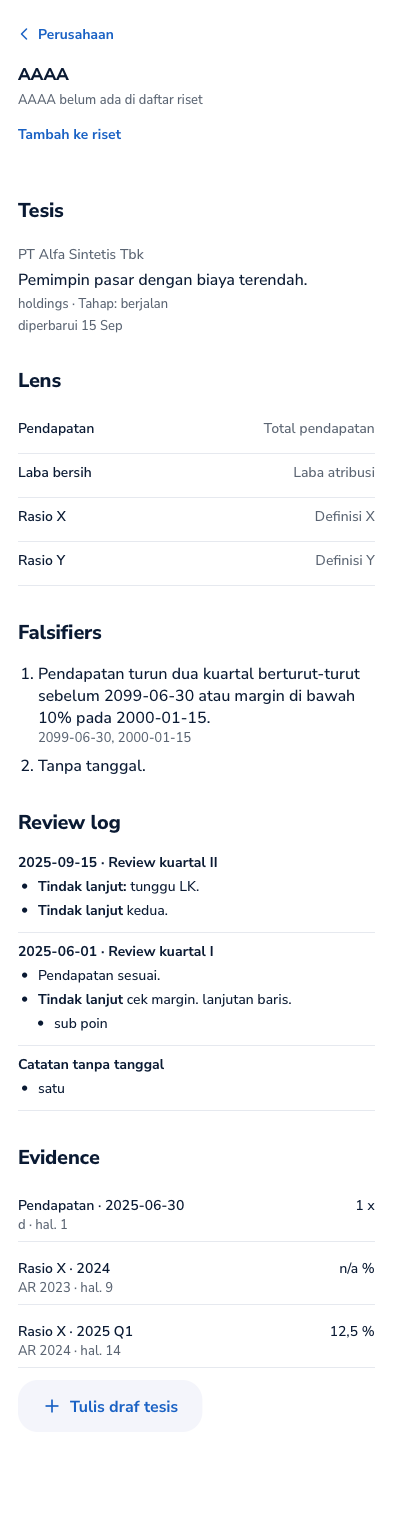
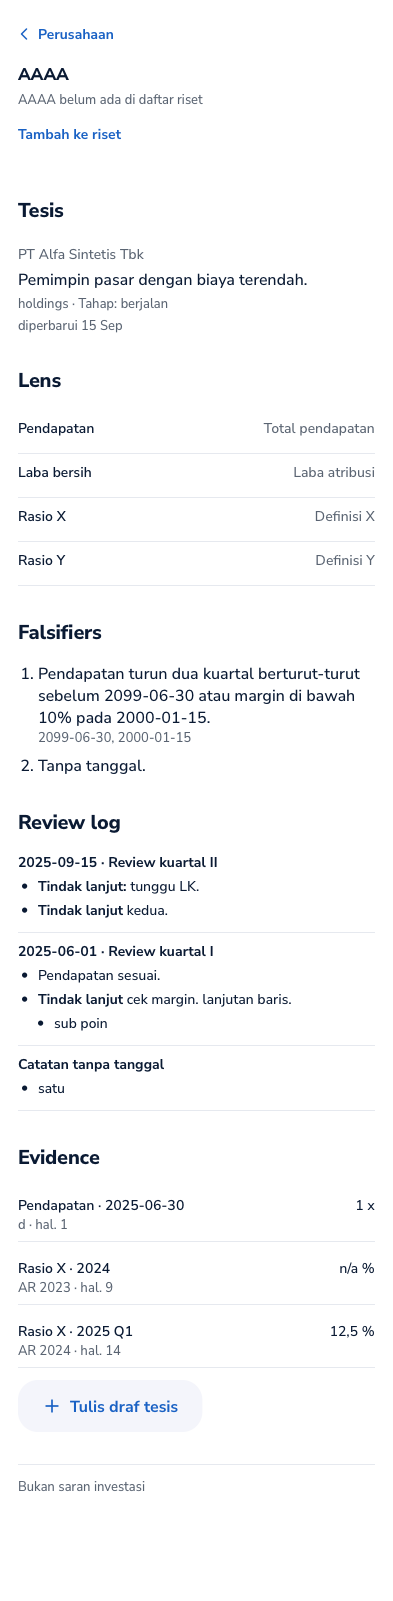
L3b: locate the thesis-only footer as main > footer, a footer inside main is not a contentinfo landmark (review L4)

diff --git a/web/src/features/riset/companyPage.test.tsx b/web/src/features/riset/companyPage.test.tsx
@@ -155,7 +155,7 @@ describe("company page #/perusahaan/:ticker (ui-slicing.md §1, design.md §3.4)
     expect(await screen.findByRole("list", { name: "Draf tesis ZZZZ" })).toHaveTextContent("Draf ZZZZ");
     expect(screen.getByRole("button", { name: "Tulis draf tesis" })).toBeInTheDocument();
     // Footer di akhir halaman (design.md §3): hanya penafian, tanpa umur data karena tak ada dossier riset.
-    const footer = screen.getByRole("contentinfo");
+    const footer = screen.getByText("Bukan saran investasi").closest("footer")!;
     expect(footer).toHaveTextContent(/^Bukan saran investasi$/);
     expect(footer).not.toHaveTextContent(/Umur data|Harga|Laporan/);
     expect(footer.previousElementSibling, "footer menutup halaman setelah blok Tesis").toBe(document.querySelector('section[data-block="tesis"]'));

diff --git a/web/e2e/perusahaan.e2e.ts b/web/e2e/perusahaan.e2e.ts
@@ -130,7 +130,7 @@ for (const width of WIDTHS) {
       await expect(page.getByRole("button", { name: "Tesis", exact: true }), "blok Tesis selalu terbuka").toHaveCount(0);
       await expect(page.locator('section[data-block="tesis"]')).toContainText("Review log");
       expect(await blockTitles(page)).toEqual(["Tesis"]);
-      await expect(page.getByRole("contentinfo"), "footer menutup halaman hanya-tesis").toHaveText("Bukan saran investasi");
+      await expect(page.locator("main footer"), "footer menutup halaman hanya-tesis").toHaveText("Bukan saran investasi");
       await audit(page);
       if (width === 393) await fullPageShot(page, `${SHOTS}perusahaan-hanya-tesis.png`);
       await page.getByRole("link", { name: "Tambah ke riset" }).click();
